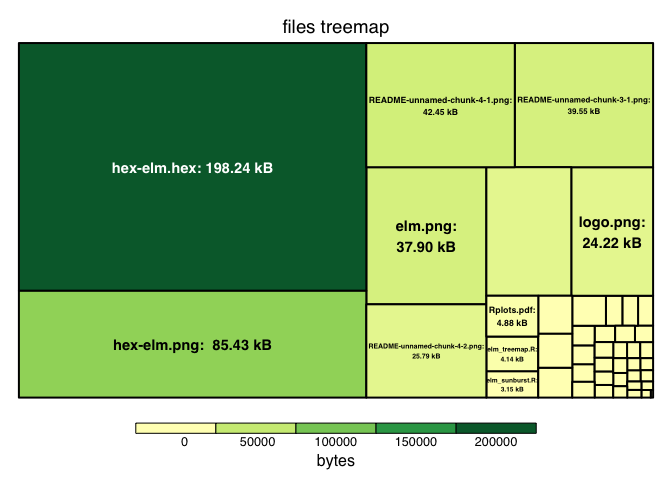
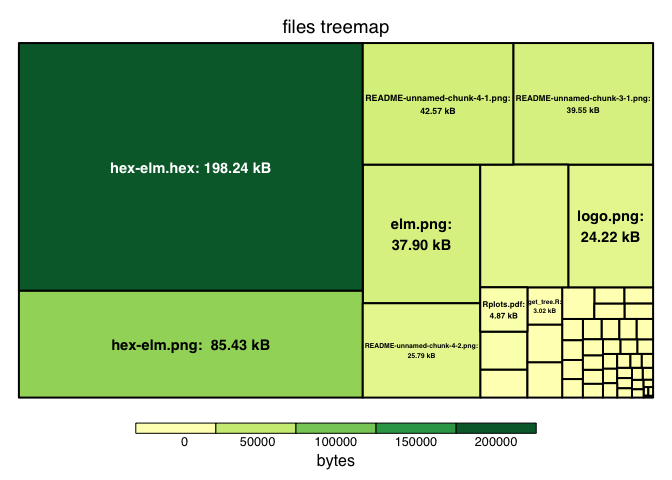
add rstudio addins

Changed region(s): [[0.5312, 0.0938, 0.9688, 0.8438], [0.1562, 0.6875, 0.4062, 0.75], [0.1562, 0.3125, 0.4062, 0.375]]

diff --git a/README.md b/README.md
@@ -30,10 +30,18 @@ library(elm)
 #>   as.zoo.data.frame zoo
 ```
 
+## RStudio addins
+
+After installing the package, you will see RStudio addins to generate
+file visualizations for your current working directory.
+
 ## Interactive plots
 
 You can interactively explore your disk usage using
-`elm_sunburst_files()`. Disk usages is displayed in bytes.
+`elm_sunburst_files()`. Disk usages is displayed in bytes. Note that
+plots in this package may be slow to load or fail to load if there are a
+lot of child nodes in the file tree. If that happens, I’d recommend
+changing the working directory or folder path in the path argument.
 
 ``` r
 elm_sunburst_files(path = ".") #recursive look at all files in current path
@@ -73,13 +81,16 @@ via `clipr::write_clip()`.
 elm_clip_folders()
 #> .
 #> ├── R
+#> ├── inst
+#> │   └── rstudio
 #> ├── man
 #> │   └── figures
 #> └── tests
 #>     └── testthat
 #> Tree copied to clipboard.
 #> Files and/or folders in the tree returned.
-#> R              man            man/figures    tests          tests/testthat
+#> R              inst           inst/rstudio   man            man/figures    
+#> tests          tests/testthat
 ```
 
 Or you can use `elm_clip_files()` to print and copy the files in your
